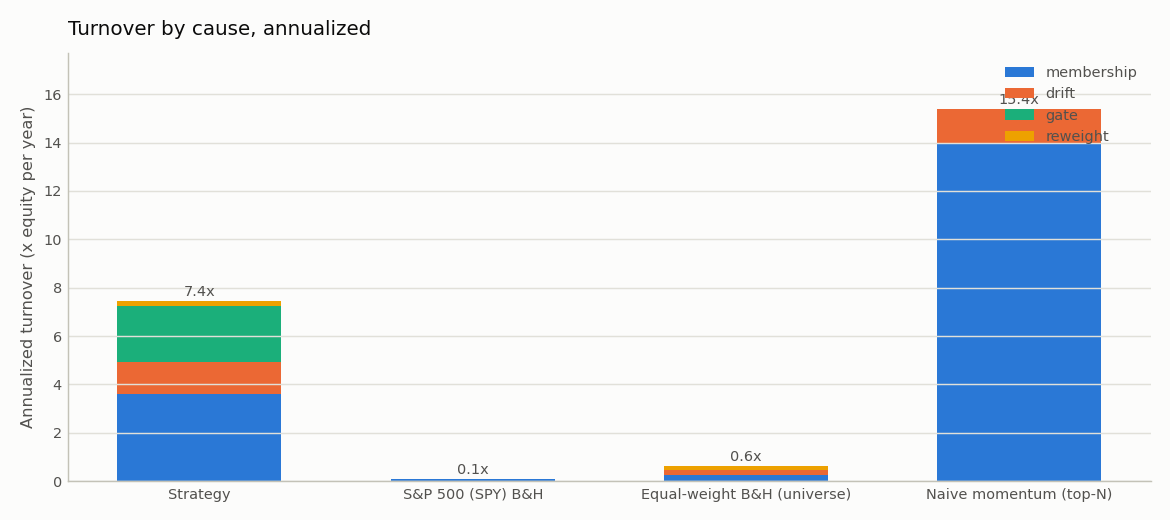
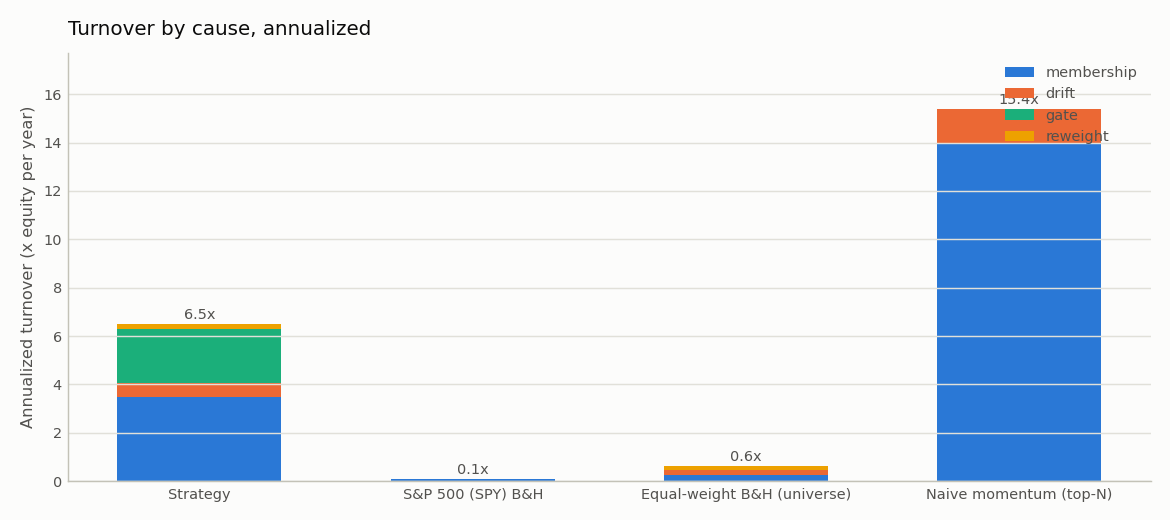
Step 4: position no-trade band in the engine (strategy runs only)
turnover.position_band (default 0.0 = Layer 1; chosen 0.02). At execution a held->held trade
is skipped when |target - drifted weight at the execution price| < band; the residual stays
in cash with no renormalization. Full exits and new entries always trade; benchmarks never get
the band. Tests cover the skip and its cash effect, both drift-reference discriminating cases,
exit/entry, benchmark exemption, and band 0 is golden.

Control, + band 2pp (x/yr):
  membership 3.60 -> 3.49 | drift 1.35 -> 0.57 | gate 2.30 -> 2.24 | reweight 0.20 -> 0.19
  total 7.44 -> 6.50 (2236 held->held trades skipped); average held rank 3.81 (unchanged)
  CAGR 38.6% -> 38.2%, Sharpe 1.14 -> 1.14, max DD -45.4% -> -45.6%, costs 1.12% -> 1.00%

Changed region(s): [[0.0923, 0.6769, 0.2462, 0.7692], [0.0923, 0.5538, 0.2462, 0.6462]]

diff --git a/tests/test_position_band.py b/tests/test_position_band.py
@@ -1,0 +1,88 @@
+"""Position no-trade band (brief v2, decision 3): skip small held->held trades, drift reference."""
+
+from __future__ import annotations
+
+import pandas as pd
+import pytest
+
+from tests.golden import assert_golden
+from tests.synthetic import make_config
+from thematic_alpha.backtest.engine import run_backtest
+
+CFG = make_config()
+BT = CFG.backtest.model_copy(update={"execution_lag_days": 0, "execution_price": "close"})
+ZERO_COST = CFG.costs.model_copy(update={"bps_per_side": 0.0, "slippage_bps": 0.0, "flat_fee": 0.0})
+IDX = pd.bdate_range("2024-01-01", periods=8)
+COLS = ["A", "B"]
+BAND = 0.02
+
+
+def _targets(rows: dict) -> pd.DataFrame:
+    return pd.DataFrame({IDX[i]: v for i, v in rows.items()}, index=COLS, dtype=float).T
+
+
+def _run(close: pd.DataFrame, tw: pd.DataFrame, band: float):
+    return run_backtest(close, tw, BT, ZERO_COST, position_band=band)
+
+
+def _flat() -> pd.DataFrame:
+    return pd.DataFrame(100.0, index=IDX, columns=COLS)
+
+
+def _drift_a(target_weight: float, drifted_weight: float, other: float = 0.2) -> pd.DataFrame:
+    """Flat prices except A, which is repriced on day 3 so its weight drifts to ``drifted``."""
+    close = _flat()
+    k = drifted_weight * (1 - target_weight) / (target_weight * (1 - drifted_weight))
+    close.loc[IDX[3] :, "A"] = 100.0 * k
+    return close
+
+
+def test_small_change_is_skipped_and_cash_keeps_the_skipped_buy():
+    tw = _targets({0: [0.4, 0.4], 3: [0.41, 0.4]})
+    on, off = _run(_flat(), tw, BAND), _run(_flat(), tw, 0.0)
+    assert len(on.trades) == 2 and len(off.trades) == 3
+    equity = off.trades["equity_pre"].iloc[-1]
+    assert on.cash.iloc[-1] - off.cash.iloc[-1] == pytest.approx(0.01 * equity)
+    # Nothing is renormalized: B is untouched in both runs.
+    assert on.weights_history["B"].iloc[-1] == off.weights_history["B"].iloc[-1]
+
+
+def test_drift_not_target_is_the_reference_trade_executes_when_drifted_out_of_band():
+    # Target unchanged at 20% but the name drifted to 23%: |0.20 - 0.23| >= 2pp -> trade.
+    tw = _targets({0: [0.2, 0.2], 3: [0.2, 0.2]})
+    res = _run(_drift_a(0.20, 0.23), tw, BAND)
+    later = res.trades[res.trades["date"] == IDX[3]]
+    assert later["ticker"].tolist() == ["A"] and later["side"].iloc[0] == "sell"
+    assert later["w_before"].iloc[0] == pytest.approx(0.23)
+
+
+def test_drift_not_target_is_the_reference_trade_skipped_when_drift_covers_the_move():
+    # Target moves 20% -> 22.5% but the name drifted to 22%: |0.225 - 0.22| < 2pp -> skipped.
+    tw = _targets({0: [0.2, 0.2], 3: [0.225, 0.2]})
+    res = _run(_drift_a(0.20, 0.22), tw, BAND)
+    assert (res.trades["date"] == IDX[3]).sum() == 0
+    off = _run(_drift_a(0.20, 0.22), tw, 0.0).trades
+    assert "A" in off.loc[off["date"] == IDX[3], "ticker"].tolist()  # without the band it trades
+
+
+def test_exit_below_band_and_entry_always_trade():
+    tw = _targets({0: [0.01, 0.5], 3: [0.0, 0.5], 5: [0.01, 0.5]})
+    res = _run(_flat(), tw, BAND)
+    a = res.trades[res.trades["ticker"] == "A"]
+    assert a["date"].tolist() == [IDX[0], IDX[3], IDX[5]]
+    assert a["side"].tolist() == ["buy", "sell", "buy"]
+    assert res.weights_history.loc[IDX[4], "A"] == 0.0
+
+
+def test_band_only_applies_to_strategy_runs():
+    from tests.golden import golden_run
+
+    _, _, _, results = golden_run(turnover={"position_band": 0.05})
+    _, _, _, base = golden_run()
+    for name in ["sp500", "equal_weight_bh", "naive_momentum"]:
+        pd.testing.assert_frame_equal(results[name].trades, base[name].trades)
+    assert len(results["strategy"].trades) < len(base["strategy"].trades)
+
+
+def test_band_zero_is_golden():
+    assert_golden(turnover={"position_band": 0.0})

diff --git a/src/thematic_alpha/backtest/engine.py b/src/thematic_alpha/backtest/engine.py
@@ -6,6 +6,11 @@ primary-exchange sessions later at ``execution_price`` (open or close). Costs ar
 traded notional and paid from cash; buys are scaled down so cash never goes negative. No
 leverage, no shorting.
 
+Position no-trade band (``position_band`` > 0, strategy runs only): a held->held trade is skipped
+when the target is within the band of the *drifted* pre-trade weight at the execution price; the
+skipped residual stays in cash and nothing is renormalized. Full exits and new entries always
+trade.
+
 Approximation (documented): if a ticker's own exchange is closed on an execution date, it trades
 at its forward-filled price. A ticker whose price is NaN (not yet listed / real gap) cannot be
 traded that day; its target weight is left in cash.
@@ -85,6 +90,7 @@ def run_backtest(
     sessions: pd.DatetimeIndex | None = None,
     start: str | pd.Timestamp | None = None,
     end: str | pd.Timestamp | None = None,
+    position_band: float = 0.0,
 ) -> BacktestResult:
     px_close = prices_close.sort_index()
     tickers = list(px_close.columns)
@@ -122,6 +128,7 @@ def run_backtest(
     paid: dict[pd.Timestamp, float] = {}
     trade_rows: list[dict] = []
     skipped = 0
+    banded = 0
     prev_target = np.zeros(n)
 
     for i, d in enumerate(dates):
@@ -137,6 +144,11 @@ def run_backtest(
             current = np.where(tradable, shares * np.where(tradable, px, 0.0), 0.0)
             w_before = current / equity_pre if equity_pre > 0 else np.zeros(n)
             delta = np.where(tradable, w * equity_pre - current, 0.0)
+            if position_band > 0.0:
+                held_to_held = (current > 0.0) & (w > 0.0)
+                within = np.abs(w - w_before) < position_band
+                delta[held_to_held & within] = 0.0
+                banded += int((held_to_held & within & (delta == 0.0)).sum())
             # Ignore float-noise "trades" (relative to equity) so a hold really is a hold.
             delta[np.abs(delta) < NOISE * max(equity_pre, 1.0)] = 0.0
             buys, sells = delta[delta > 0].sum(), -delta[delta < 0].sum()
@@ -186,6 +198,12 @@ def run_backtest(
     if skipped:
         logger.warning(
             "%d target weights fell on untradeable (NaN-price) days; left in cash.", skipped
+        )
+    if position_band > 0.0:
+        logger.info(
+            "position band %.3f: %d held->held trades skipped (residual left in cash).",
+            position_band,
+            banded,
         )
 
     equity_s = pd.Series(equity, index=dates, name="equity")

diff --git a/src/thematic_alpha/pipeline.py b/src/thematic_alpha/pipeline.py
@@ -283,21 +283,31 @@ def run_backtests(
     dates = strategy.signal_dates
     end = config.run.end_date
 
-    def _run(close, open_, targets):
+    def _run(close, open_, targets, band: float = 0.0):
         return run_backtest(
-            close, targets, config.backtest, config.costs, open_, sessions, dates.min(), end
+            close,
+            targets,
+            config.backtest,
+            config.costs,
+            open_,
+            sessions,
+            dates.min(),
+            end,
+            position_band=band,
         )
 
+    # The position band is a strategy turnover control; benchmarks never get it.
+    band = config.turnover.position_band
     targets = {
-        STRATEGY: strategy.target_weights,
         "sp500": single_asset_targets(market, dates.min()),
         "equal_weight_bh": buy_and_hold_targets(features.eligible, dates),
         "naive_momentum": naive_momentum_targets(
             features.wide, features.eligible, dates, config.ranker.top_n
         ),
     }
-    results = {name: _run(close_base, open_base, tw) for name, tw in targets.items()}
-    results["strategy_local"] = _run(close_local, open_local, strategy.target_weights)
+    results = {STRATEGY: _run(close_base, open_base, strategy.target_weights, band)}
+    results.update({name: _run(close_base, open_base, tw) for name, tw in targets.items()})
+    results["strategy_local"] = _run(close_local, open_local, strategy.target_weights, band)
     for name in [STRATEGY, *BENCHMARK_ORDER]:
         r = results[name]
         logger.info(

diff --git a/src/thematic_alpha/config.py b/src/thematic_alpha/config.py
@@ -114,6 +114,14 @@ class SizingConfig(_Base):
     cash_floor: float = Field(ge=0.0, le=1.0)
 
 
+class TurnoverConfig(_Base):
+    """Turnover controls applied in the engine, to strategy runs only (benchmarks never)."""
+
+    # Held->held trades whose |target - drifted weight| is below this are skipped; the residual
+    # stays in cash. Full exits and new entries always trade. 0.0 = off (Layer 1).
+    position_band: float = Field(default=0.0, ge=0.0, lt=1.0)
+
+
 class BacktestConfig(_Base):
     rebalance: Literal["weekly", "monthly"] = "weekly"
     rebalance_day: Literal["monday", "tuesday", "wednesday", "thursday", "friday"] = "friday"
@@ -170,6 +178,7 @@ class Config(_Base):
     ranker: RankerConfig
     event_mask: EventMaskConfig
     sizing: SizingConfig
+    turnover: TurnoverConfig = TurnoverConfig()
     backtest: BacktestConfig
     costs: CostsConfig
     risk: RiskConfig

diff --git a/src/thematic_alpha/reporting/report.py b/src/thematic_alpha/reporting/report.py
@@ -144,6 +144,11 @@ def render_report(
             f"max weight {config.sizing.max_position_weight:g}, cash floor "
             f"{config.sizing.cash_floor:g}; house-money rule: Layer 2 (not applied)",
         ],
+        [
+            "Turnover control",
+            f"position no-trade band {100 * config.turnover.position_band:g} pp "
+            f"({'on' if config.turnover.position_band > 0 else 'off'}; strategy only)",
+        ],
         ["Min history", f"{config.data.min_history_days} sessions"],
         ["Macro publication lag", f"{config.data.macro_publication_lag_days} session"],
     ]

diff --git a/tests/synthetic.py b/tests/synthetic.py
@@ -290,11 +290,13 @@ LAYER1_NEUTRAL: dict[str, dict] = {
     "ranker": {"weighting": "conviction_tier", "exit_rank": None},
     "macro_gate": {"enabled": True, "combination": "multiplicative"},
     "event_mask": {"enabled": True, "block_new_entries_only": True},
+    "turnover": {"position_band": 0.0},
 }
 
 # The chosen (preregistered) values of the same knobs, for tests that must pass with them on.
 CHOSEN: dict[str, dict] = {
     "ranker": {"weighting": "equal", "exit_rank": 8},
+    "turnover": {"position_band": 0.02},
 }
 
 

diff --git a/outputs/report.md b/outputs/report.md
@@ -17,6 +17,7 @@
 | Macro gate | VIX>25→×0.5; 10y +40bp/21d→×0.7; WTI +20%/21d→×0.85; floor 0.3; multiplicative |
 | Event mask | block new exposure 3 sessions before earnings (on) |
 | Sizing | max weight 0.35, cash floor 0; house-money rule: Layer 2 (not applied) |
+| Turnover control | position no-trade band 2 pp (on; strategy only) |
 | Min history | 252 sessions |
 | Macro publication lag | 1 session |
 
@@ -36,35 +37,35 @@ Average cross-sectional rank of the held names: **3.81** (exit rank 8, top 5; pl
 
 | Metric | Strategy | S&P 500 (SPY) B&H | Equal-weight B&H (universe) | Naive momentum (top-N) |
 |---|---:|---:|---:|---:|
-| Total return | 4958.1% | 364.5% | 7474.4% | 6780.2% |
-| CAGR | 38.6% | 13.6% | 43.3% | 42.2% |
-| Annualized volatility | 30.9% | 18.4% | 31.2% | 34.0% |
+| Total return | 4791.7% | 364.5% | 7474.4% | 6780.2% |
+| CAGR | 38.2% | 13.6% | 43.3% | 42.2% |
+| Annualized volatility | 30.7% | 18.4% | 31.2% | 34.0% |
 | Sharpe (excess over DTB3) | 1.14 | 0.67 | 1.24 | 1.14 |
-| Sortino (MAR 0) | 1.68 | 0.95 | 1.82 | 1.67 |
-| Max drawdown | -45.4% | -33.5% | -46.7% | -55.2% |
-| Max DD peak | 2024-06-18 | 2020-02-19 | 2021-12-27 | 2022-01-03 |
-| Max DD trough | 2025-04-21 | 2020-03-23 | 2022-12-28 | 2022-12-28 |
-| Max DD recovery | 2025-08-28 | 2021-01-07 | 2023-07-05 | 2024-02-09 |
-| Max DD duration (days) | 436 | 323 | 555 | 767 |
-| Calmar | 0.85 | 0.41 | 0.93 | 0.76 |
-| Alpha vs S&P 500 (ann.) | 22.2% | -0.1% | 22.6% | 23.0% |
-| Beta vs S&P 500 | 1.06 | 1.00 | 1.30 | 1.28 |
+| Sortino (MAR 0) | 1.67 | 0.95 | 1.82 | 1.67 |
+| Max drawdown | -45.6% | -33.5% | -46.7% | -55.2% |
+| Max DD peak | 2021-11-25 | 2020-02-19 | 2021-12-27 | 2022-01-03 |
+| Max DD trough | 2022-12-28 | 2020-03-23 | 2022-12-28 | 2022-12-28 |
+| Max DD recovery | 2023-06-30 | 2021-01-07 | 2023-07-05 | 2024-02-09 |
+| Max DD duration (days) | 582 | 323 | 555 | 767 |
+| Calmar | 0.84 | 0.41 | 0.93 | 0.76 |
+| Alpha vs S&P 500 (ann.) | 21.9% | -0.1% | 22.6% | 23.0% |
+| Beta vs S&P 500 | 1.05 | 1.00 | 1.30 | 1.28 |
 | Historical VaR 95% (daily) | 3.0% | 1.7% | 3.2% | 3.3% |
-| Historical VaR 99% (daily) | 5.3% | 3.3% | 5.3% | 5.8% |
-| Parametric VaR 95% (daily) | 3.1% | 1.8% | 3.1% | 3.4% |
-| Parametric VaR 99% (daily) | 4.4% | 2.6% | 4.4% | 4.8% |
-| CVaR / ES 95% (daily) | 4.6% | 2.8% | 4.6% | 5.0% |
-| Excess kurtosis (daily) | 3.59 | 11.29 | 3.70 | 3.42 |
-| Hit rate (weekly periods) | 59.8% | 60.3% | 61.7% | 60.4% |
-| Average win (weekly period) | 3.5% | 1.7% | 3.5% | 3.8% |
+| Historical VaR 99% (daily) | 5.2% | 3.3% | 5.3% | 5.8% |
+| Parametric VaR 95% (daily) | 3.0% | 1.8% | 3.1% | 3.4% |
+| Parametric VaR 99% (daily) | 4.3% | 2.6% | 4.4% | 4.8% |
+| CVaR / ES 95% (daily) | 4.5% | 2.8% | 4.6% | 5.0% |
+| Excess kurtosis (daily) | 3.58 | 11.29 | 3.70 | 3.42 |
+| Hit rate (weekly periods) | 59.9% | 60.3% | 61.7% | 60.4% |
+| Average win (weekly period) | 3.4% | 1.7% | 3.5% | 3.8% |
 | Average loss (weekly period) | -3.3% | -1.8% | -3.5% | -3.7% |
-| Annualized turnover | 7.44 | 0.08 | 0.62 | 15.39 |
-| Total costs paid | 5,667.74 | 7.99 | 1,229.48 | 13,034.81 |
-| Costs as % of final equity | 1.12% | 0.02% | 0.16% | 1.89% |
+| Annualized turnover | 6.50 | 0.08 | 0.62 | 15.39 |
+| Total costs paid | 4,896.76 | 7.99 | 1,229.48 | 13,034.81 |
+| Costs as % of final equity | 1.00% | 0.02% | 0.16% | 1.89% |
 
-Against equal-weight buy-and-hold of the same basket the strategy's CAGR is lower (38.6% vs 43.3%), its Sharpe is lower (1.14 vs 1.24), and its maximum drawdown is shallower (-45.4% vs -46.7%). The rules gave up total return relative to holding the basket in exchange for a better risk-adjusted profile.
+Against equal-weight buy-and-hold of the same basket the strategy's CAGR is lower (38.2% vs 43.3%), its Sharpe is lower (1.14 vs 1.24), and its maximum drawdown is shallower (-45.6% vs -46.7%). The rules gave up total return relative to holding the basket in exchange for a better risk-adjusted profile.
 
-VaR note: parametric (normal) 99% VaR is 4.4% against a historical 5.3%; daily excess kurtosis is 3.59. The normal assumption understates the tail.
+VaR note: parametric (normal) 99% VaR is 4.3% against a historical 5.2%; daily excess kurtosis is 3.58. The normal assumption understates the tail.
 
 ## Turnover attribution
 
@@ -72,12 +73,12 @@ Annualized turnover split by cause (see `backtest/attribution.py`): **membership
 
 | Run | membership | drift | gate | reweight | total |
 |---|---:|---:|---:|---:|---:|
-| Strategy | 3.60 | 1.35 | 2.30 | 0.20 | 7.44 |
+| Strategy | 3.49 | 0.57 | 2.24 | 0.19 | 6.50 |
 | S&P 500 (SPY) B&H | 0.08 | 0.00 | 0.00 | 0.00 | 0.08 |
 | Equal-weight B&H (universe) | 0.27 | 0.21 | 0.00 | 0.14 | 0.62 |
 | Naive momentum (top-N) | 13.96 | 1.43 | 0.00 | 0.00 | 15.39 |
 
-Macro gate: 88 state transitions over 611 signal dates (7.3 per year); 27 of them reverse within 1 signal date and 34 within 2. The gate accounts for 30.8% of the strategy's turnover.
+Macro gate: 88 state transitions over 611 signal dates (7.3 per year); 27 of them reverse within 1 signal date and 34 within 2. The gate accounts for 34.4% of the strategy's turnover.
 
 ![turnover by cause](figures/turnover_by_cause.png)
 
@@ -85,10 +86,10 @@ Macro gate: 88 state transitions over 611 signal dates (7.3 per year); 27 of the
 
 |  | In EUR | In local currencies |
 |---|---:|---:|
-| Total return | 4958.1% | 4601.6% |
-| CAGR | 38.6% | 37.7% |
+| Total return | 4791.7% | 4494.0% |
+| CAGR | 38.2% | 37.5% |
 
-FX contribution: 0.8% per year of CAGR; in total the EUR result differs from the local-currency result by 356.5% of initial capital. Positions are unhedged USD and KRW exposure held by a EUR investor.
+FX contribution: 0.7% per year of CAGR; in total the EUR result differs from the local-currency result by 297.7% of initial capital. Positions are unhedged USD and KRW exposure held by a EUR investor.
 
 ## Largest drawdowns
 
@@ -96,11 +97,11 @@ FX contribution: 0.8% per year of CAGR; in total the EUR result differs from the
 
 | Depth | Peak | Trough | Recovery | Duration (days) |
 |---|---:|---:|---:|---:|
-| -45.4% | 2024-06-18 | 2025-04-21 | 2025-08-28 | 436 |
-| -45.3% | 2021-11-25 | 2022-12-28 | 2023-06-22 | 574 |
-| -31.0% | 2026-06-22 | 2026-07-29 | not recovered | 81 |
-| -24.7% | 2015-12-01 | 2016-02-11 | 2016-07-20 | 232 |
-| -24.6% | 2020-02-19 | 2020-03-16 | 2020-08-28 | 191 |
+| -45.6% | 2021-11-25 | 2022-12-28 | 2023-06-30 | 582 |
+| -45.1% | 2024-06-18 | 2025-04-21 | 2025-08-28 | 436 |
+| -30.5% | 2026-06-02 | 2026-07-29 | not recovered | 101 |
+| -24.3% | 2015-12-01 | 2016-02-11 | 2016-07-20 | 232 |
+| -24.3% | 2020-02-19 | 2020-03-16 | 2020-09-01 | 195 |
 
 **Equal-weight B&H (universe)**
 
